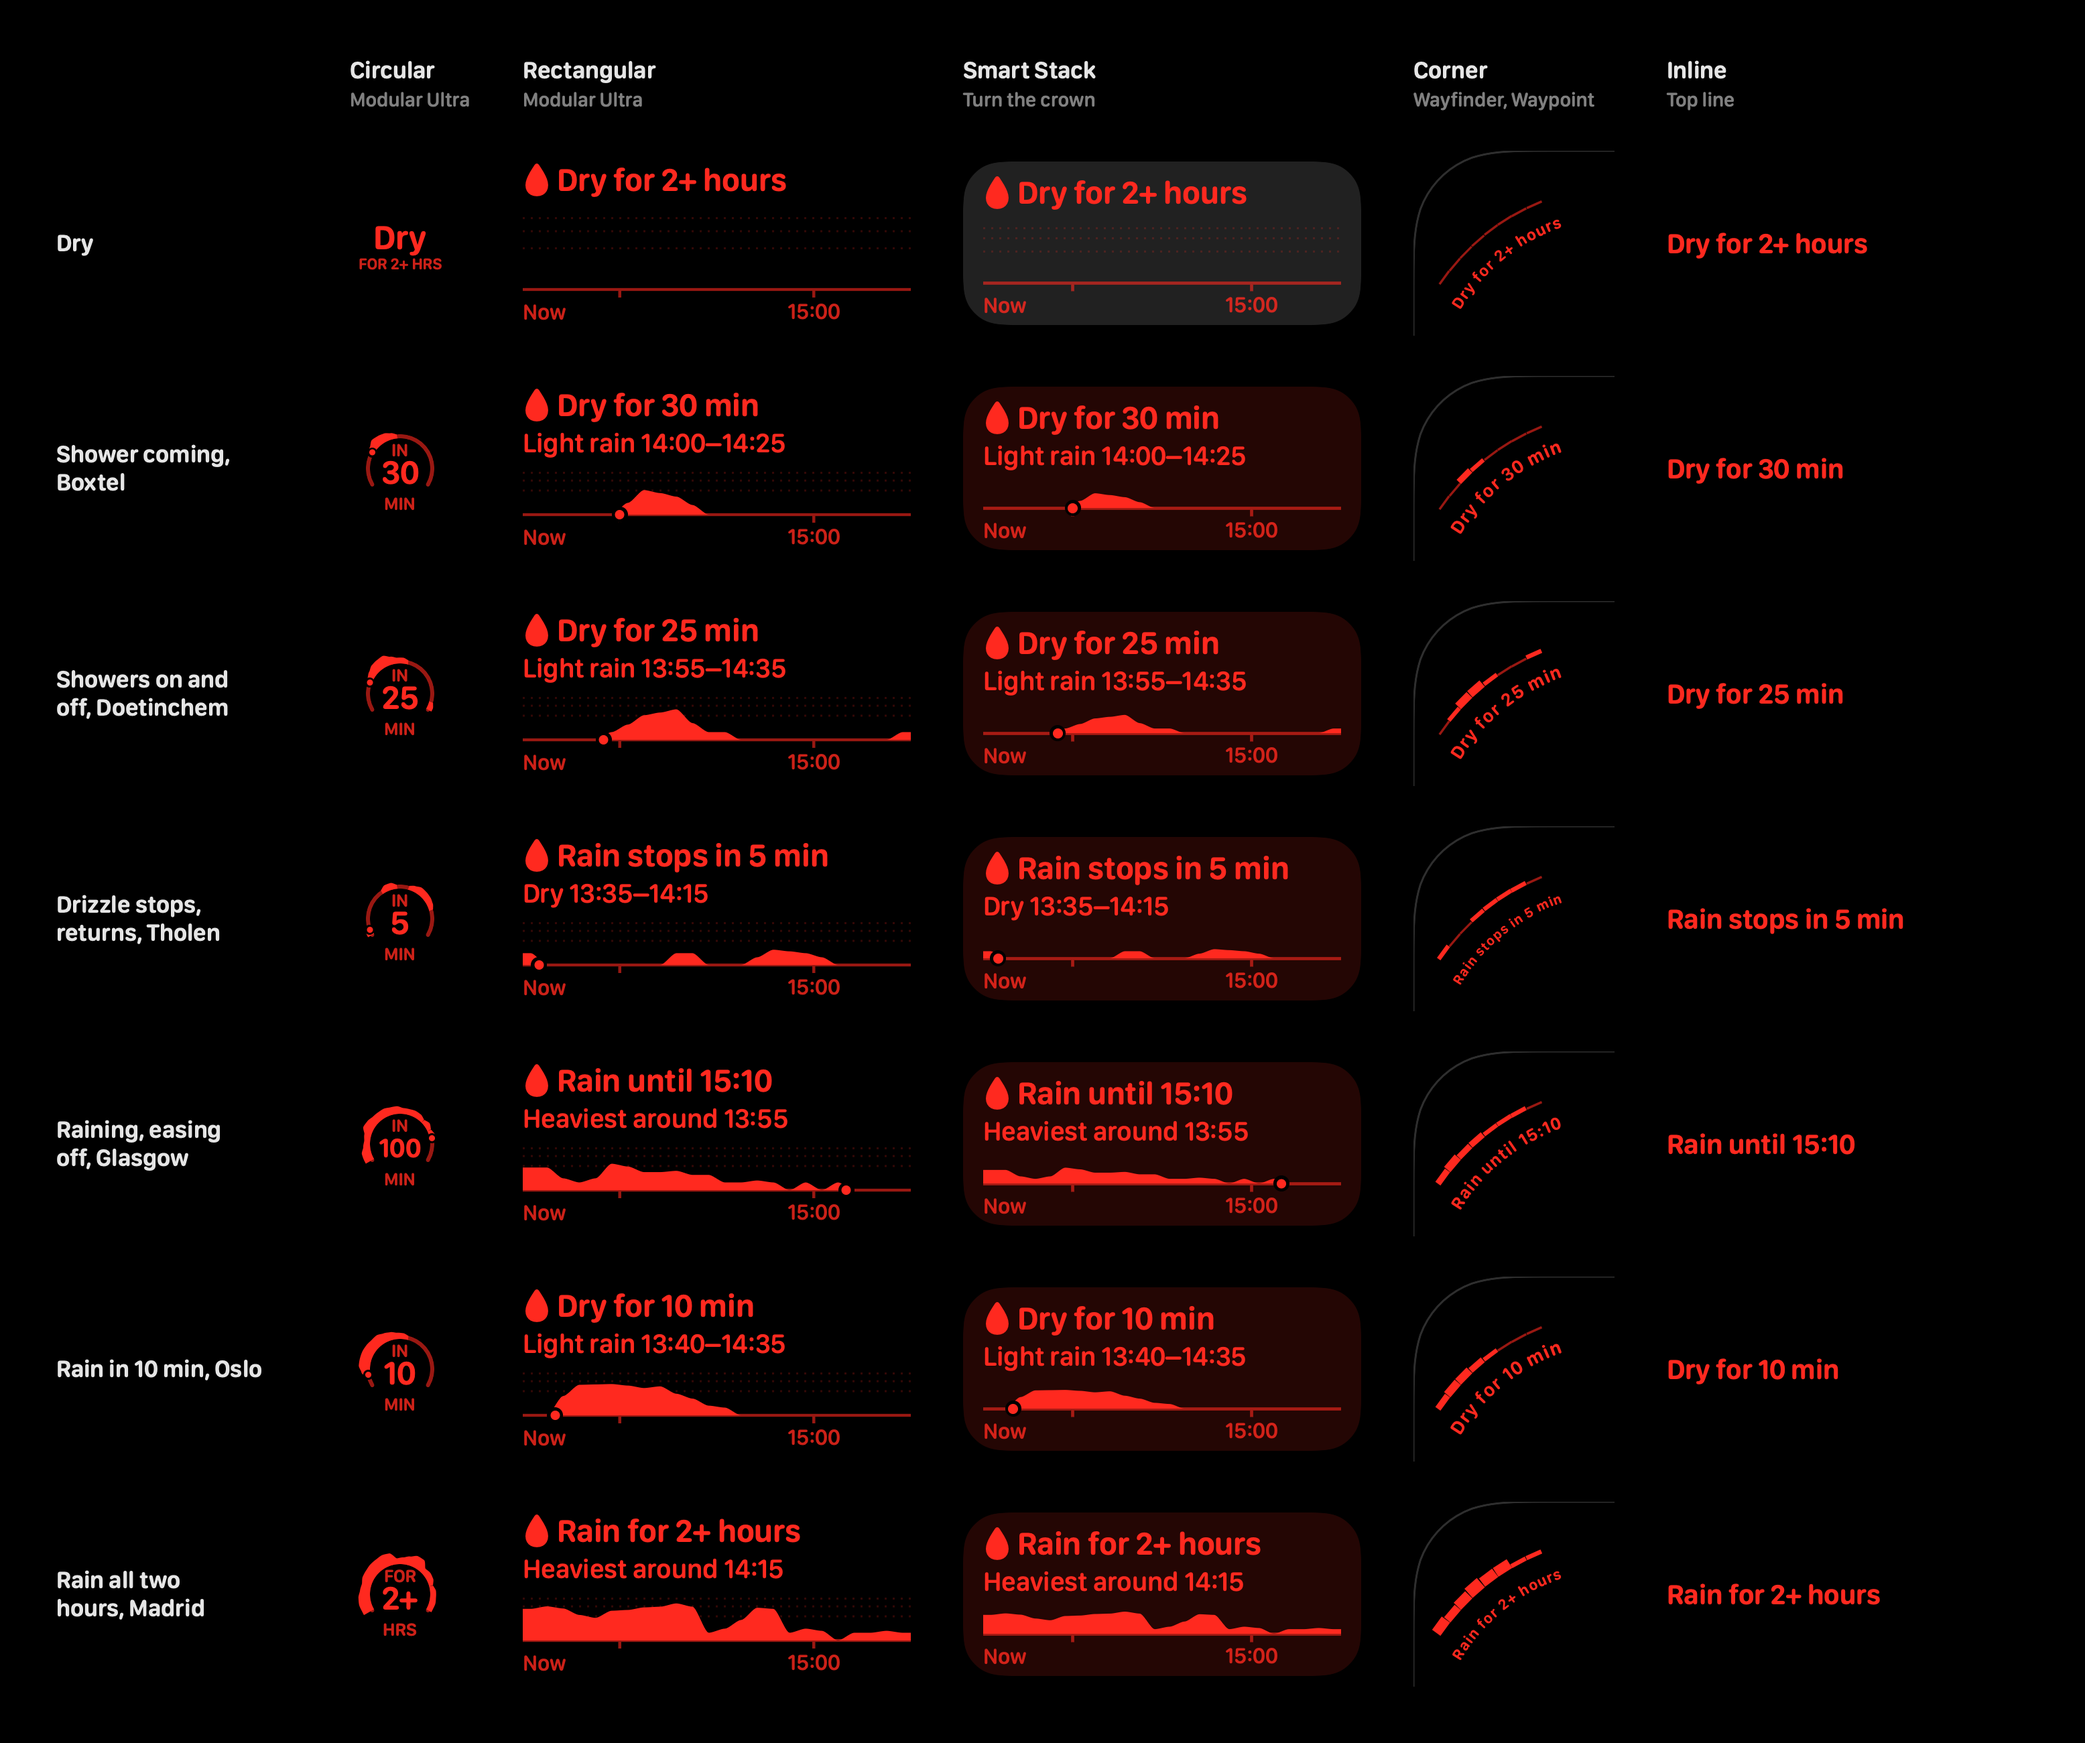
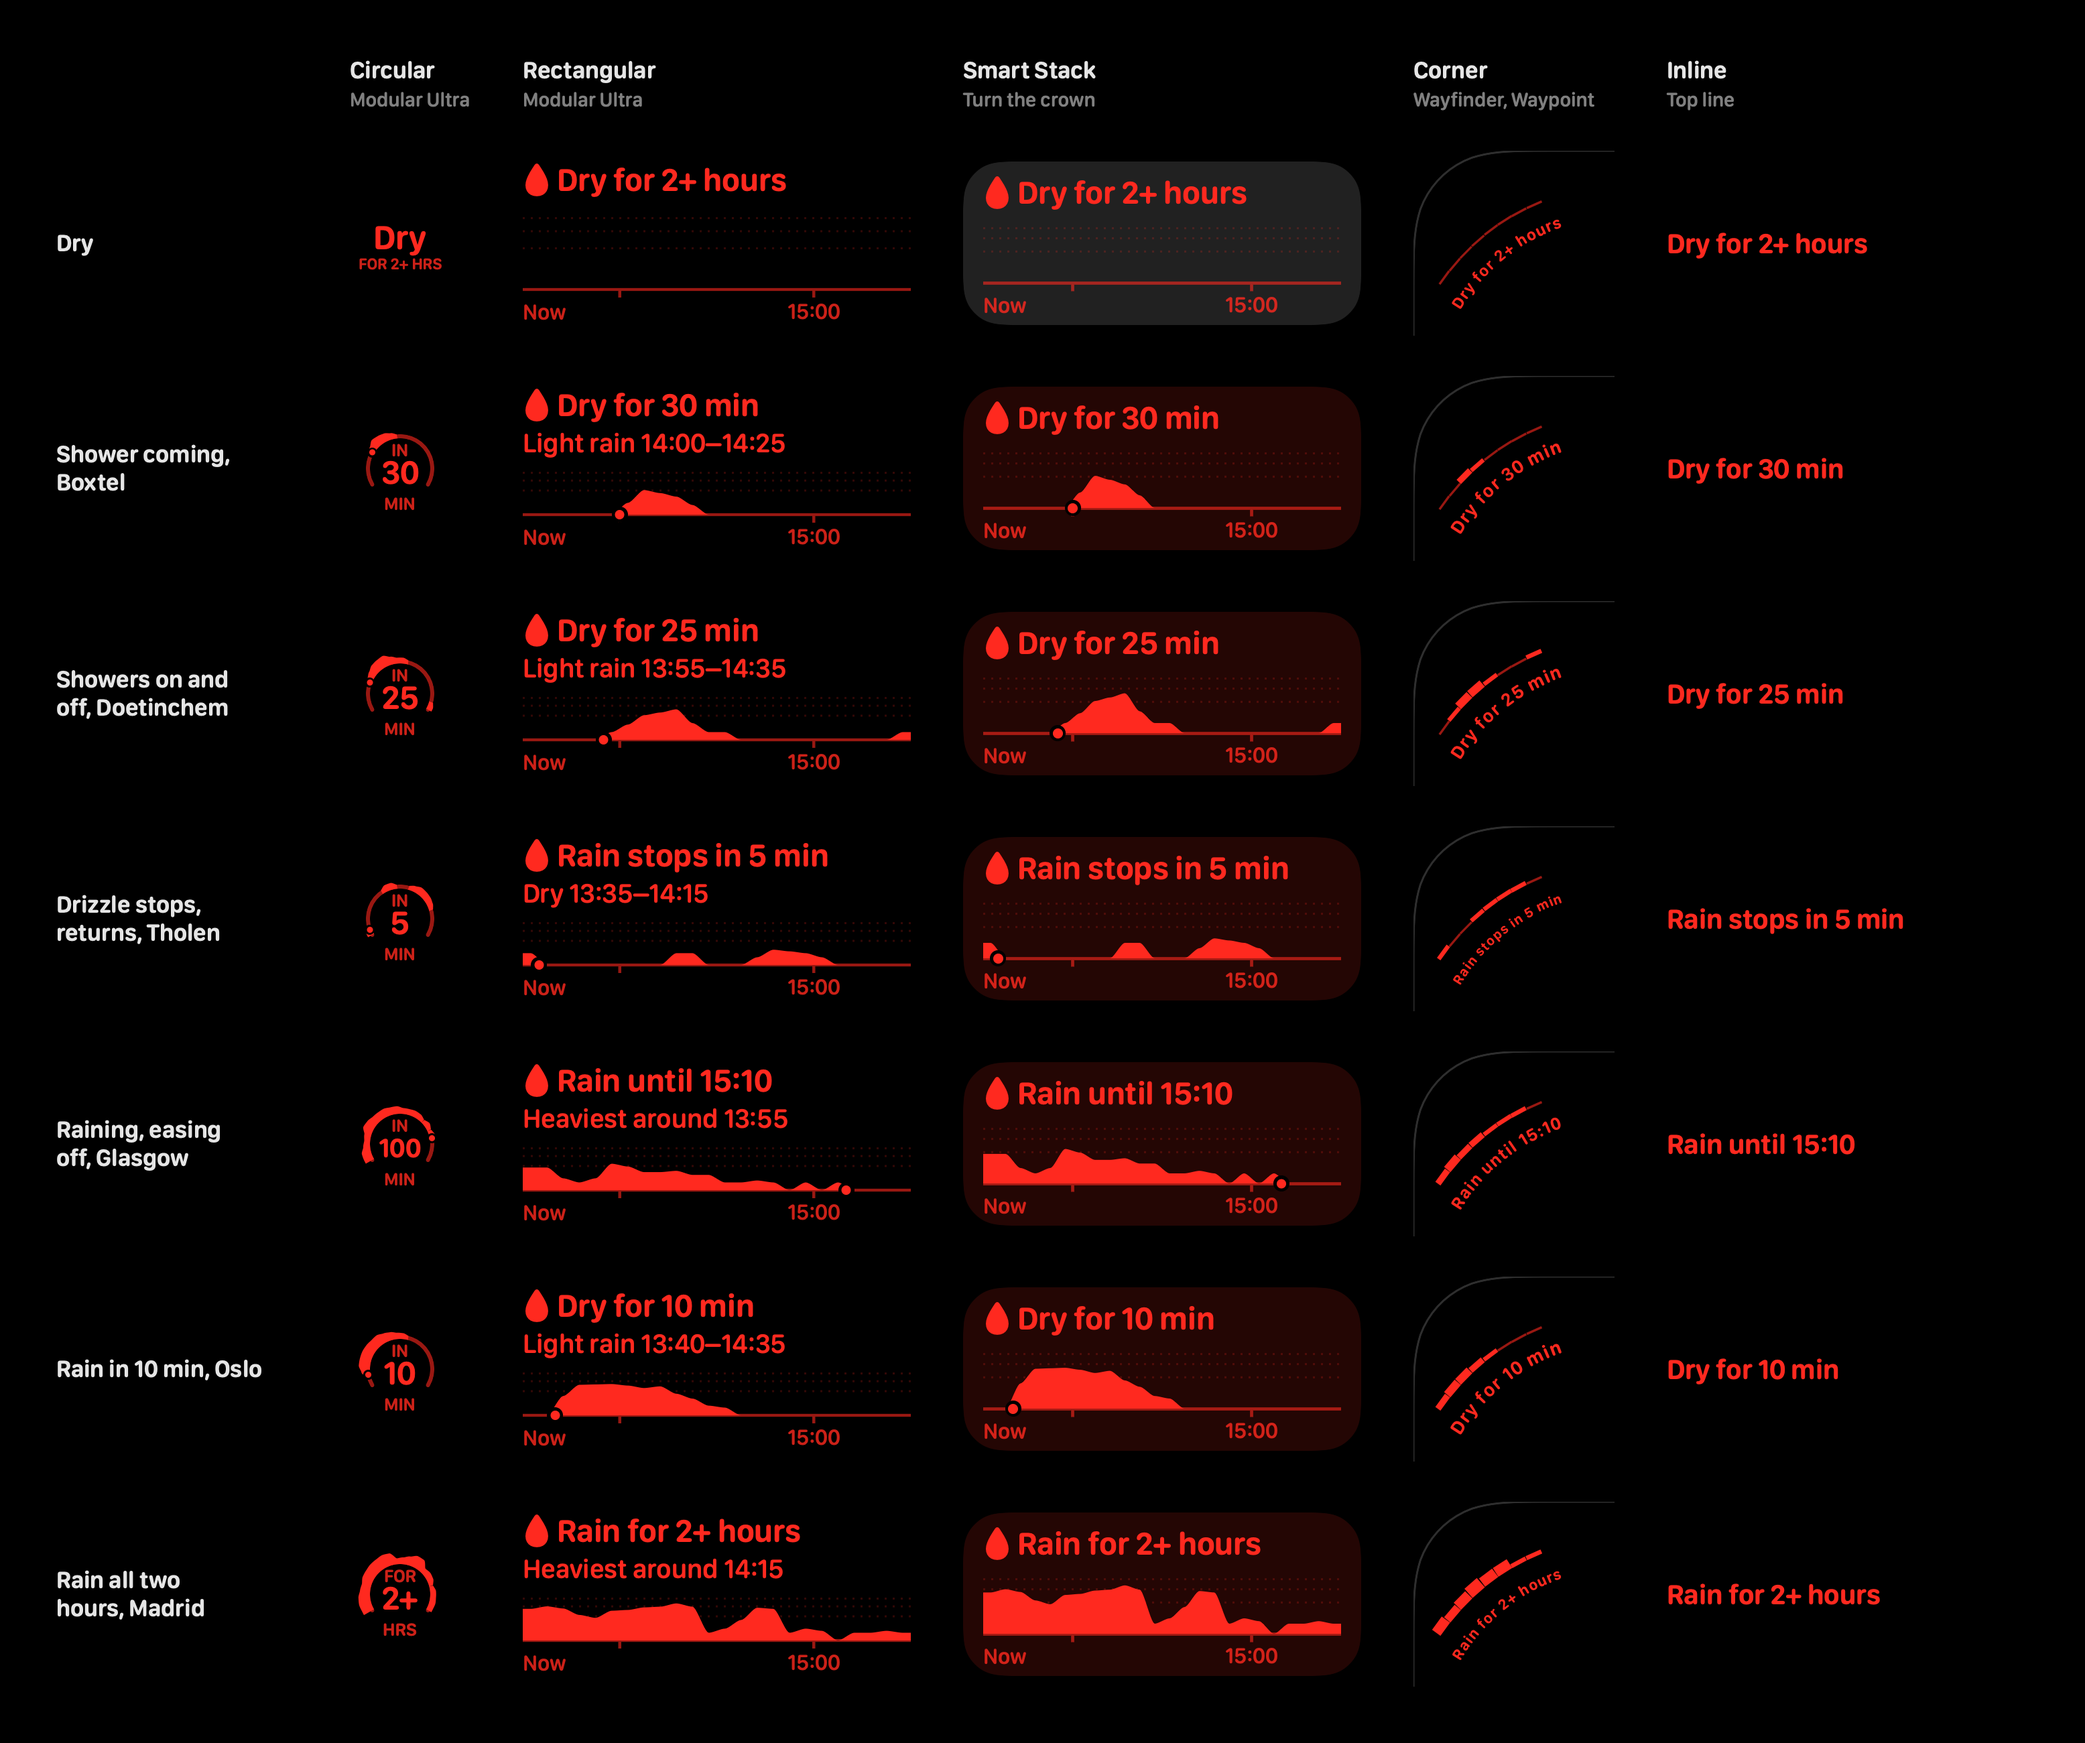
Rectangular: keep the rain line tall; the second line gives way in short slots
The simulator's own face showed the bigger text squeezing the line flat.

diff --git a/Sources/RainGraph/RainViews.swift b/Sources/RainGraph/RainViews.swift
@@ -16,28 +16,34 @@ public struct RectangularRainView: View {
 
     public var body: some View {
         let copy = RainCopy(forecast)
-        VStack(alignment: .leading, spacing: 1) {
-            Label {
-                Text(copy.headline)
-                    .foregroundStyle(palette.primary)
-            } icon: {
-                Image(systemName: "drop.fill")
-                    .foregroundStyle(palette.rain)
-                    .accentable()
+        GeometryReader { proxy in
+            // The line needs about 22 points to show how hard it rains. Slots shorter than the
+            // Modular Ultra one can't hold it under two lines of words, so the second line goes,
+            // as Apple's Heart Rate complication shows one line over its chart.
+            let detail = proxy.size.height >= 74 ? copy.detail : nil
+            VStack(alignment: .leading, spacing: 1) {
+                Label {
+                    Text(copy.headline)
+                        .foregroundStyle(palette.primary)
+                } icon: {
+                    Image(systemName: "drop.fill")
+                        .foregroundStyle(palette.rain)
+                        .accentable()
+                }
+                .labelStyle(HeadlineLabelStyle())
+                // Matched to Apple's Stocks rows beside it on Josh's face, about 16 points.
+                .font(RainFont.rounded(16, .semibold))
+                if let detail {
+                    Text(detail)
+                        .font(RainFont.rounded(13.5, .medium))
+                        .foregroundStyle(palette.rain)
+                        .accentable()
+                }
+                RainChart(forecast: forecast, palette: palette)
+                    .padding(.top, 3)
+                TimeAxis(forecast: forecast, palette: palette)
+                    .padding(.top, 4)
             }
-            .labelStyle(HeadlineLabelStyle())
-            // Matched to Apple's Stocks rows beside it on Josh's face, about 16 points.
-            .font(RainFont.rounded(16, .semibold))
-            if let detail = copy.detail {
-                Text(detail)
-                    .font(RainFont.rounded(13.5, .medium))
-                    .foregroundStyle(palette.rain)
-                    .accentable()
-            }
-            RainChart(forecast: forecast, palette: palette)
-                .padding(.top, 3)
-            TimeAxis(forecast: forecast, palette: palette)
-                .padding(.top, 4)
         }
         .lineLimit(1)
         .accessibilityElement(children: .ignore)

diff --git a/REQUIREMENTS.md b/REQUIREMENTS.md
@@ -30,7 +30,7 @@ On 13 November at 13:30 I sampled Buienradar's nowcast at 94 places in the Nethe
 4. A dot marks the moment the headline counts down to, so the words and the line agree.
 5. The words name what is happening now and how long it lasts. They follow the writing guide: plain phrases with their prepositions ("for 30 min", "in 30 min"), no codes or shorthand ("2H+", "30M"), no advice, no millimetres, no probabilities, British English, and nothing implied beyond the two hours shown.
 6. Dry gaps under 10 minutes between two wet stretches count as wet in the words, because nobody can use them. The line still shows them.
-7. The rectangular slot and the Smart Stack show the headline, the next change with clock times, and the full line.
+7. The rectangular slot and the Smart Stack show the headline and the full line, at least about 22 points high so its height still shows how hard it rains. Under the headline they name the next change with clock times where there is room for both, as in the Modular Ultra slot; in shorter slots and the Smart Stack that line gives way to the graph.
 8. The Smart Stack widget surfaces itself when rain is forecast within two hours, so it is on the wrist at the moment of leaving without a face slot.
 9. Colour only repeats what height shows, so tinted faces and Ultra Night Mode lose nothing.
 10. The data can always be trusted. watchOS reloads a complication on the active face about every 15 to 20 minutes and the Smart Stack less often (WWDC26 watchOS Group Lab; `research/freshness.md`), so nothing on the watch is real time. Rain makes age the promise instead:
